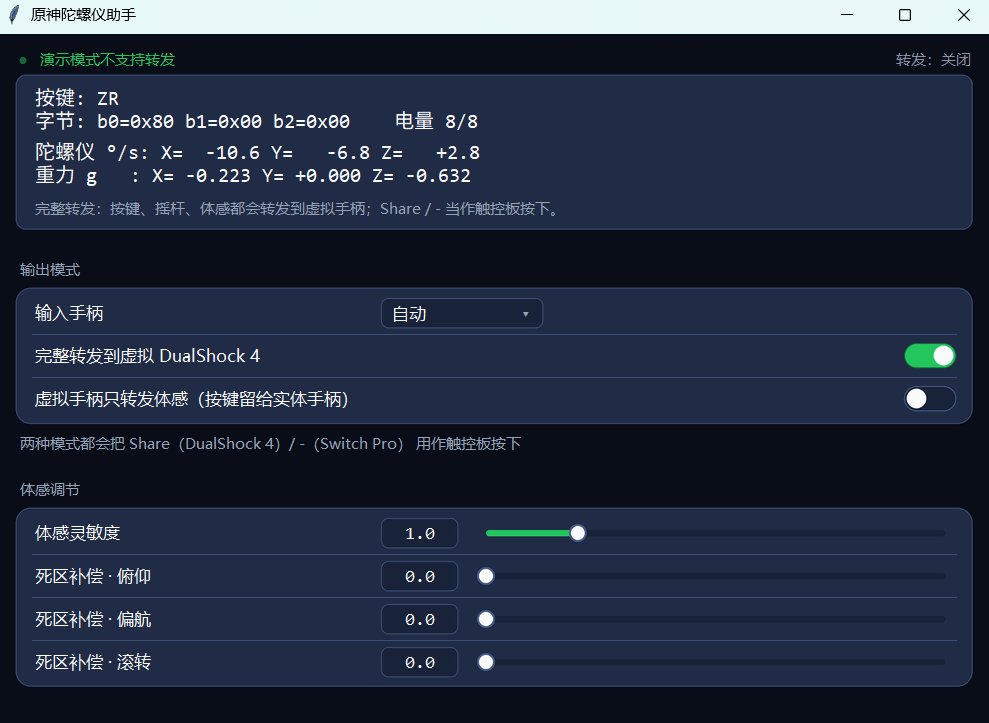
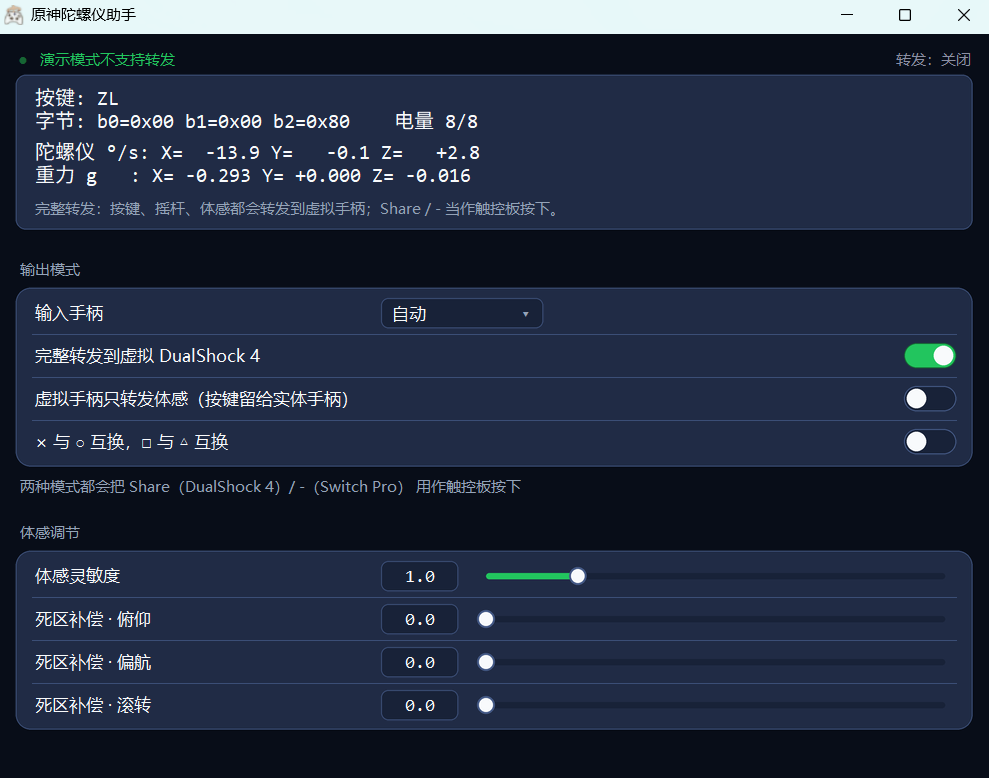
v1.3.2 新增 ×○□△ 键位互换

Changed region(s): [[0.0, 0.0, 1.0, 0.639], [0.0, 0.6694, 1.0, 0.9737]]

diff --git a/gui.py b/gui.py
@@ -389,6 +389,9 @@ class App:
         # Remembered sensitivity and anti-deadzone from the last run
         # (settings.json beside the exe).
         self.config.gyro_gain = settings.gyro_gain()
+        # Remembered like the sensitivity: the window shows exactly what the
+        # virtual pad was doing when the program last closed.
+        self.config.swap_face_buttons = settings.swap_face_buttons()
         self.deadzone = settings.motion_deadzone()
         self.config.motion_deadzone_dps = tuple(self.deadzone)
         self.source = source
@@ -484,7 +487,7 @@ class App:
         label_column = int(max(label_font.measure(text) for text in (
             "虚拟手柄只转发体感（按键留给实体手柄）",
             "完整转发到虚拟 DualShock 4", "输入手柄", "体感灵敏度",
-            "死区补偿 · 俯仰")) + px(20))
+            "× 与 ○ 互换，□ 与 △ 互换", "死区补偿 · 俯仰")) + px(20))
 
         def section(title: str, top: int = ui_theme.SPACE_MD) -> tk.Frame:
             """A titled card; rows go inside the returned frame."""
@@ -533,6 +536,16 @@ class App:
             motion_row, self.motion_only_var, command=self.toggle_motion_only,
             scale=self.scale)
         self.motion_check.pack(side="right")
+
+        # The virtual pad's face buttons can be exchanged without touching the
+        # controller, so a pad laid out one way still fits a game that expects the
+        # other.  Independent of the forwarding mode above.
+        self.swap_face_var = tk.BooleanVar(value=self.config.swap_face_buttons)
+        swap_row = row(mode_card, "× 与 ○ 互换，□ 与 △ 互换")
+        self.swap_face_check = ui_theme.ToggleSwitch(
+            swap_row, self.swap_face_var, command=self.toggle_swap_face_buttons,
+            scale=self.scale)
+        self.swap_face_check.pack(side="right")
 
         self.share_note = tk.Label(
             footer, text=f"两种模式都会把 {SHARE_NOTE} 用作触控板按下",
@@ -739,6 +752,17 @@ class App:
         """Checkbox 2: motion only, so the physical pad keeps buttons and sticks."""
         self.apply_mode(MODE_MOTION if self.motion_only_var.get() else MODE_OFF)
 
+    def toggle_swap_face_buttons(self) -> None:
+        """Exchange ✕↔○ and □↔△ on the virtual pad, and remember the choice.
+
+        Independent of the forwarding mode: it only rewrites the four face-button
+        bits on their way into the virtual pad, so the physical controller needs no
+        settings of its own.  In "motion only" mode the report carries no buttons at
+        all, which makes the switch a no-op there rather than a contradiction.
+        """
+        self.config.swap_face_buttons = settings.set_swap_face_buttons(
+            self.swap_face_var.get())
+
 
 
 
@@ -942,7 +966,7 @@ def main(argv: list[str] | None = None) -> int:
     # --debug-layout report below prints req/alloc widths so clipping is
     # verifiable without eyeballing pixels.
     scale = max(1.0, root.winfo_fpixels("1i") / 96.0)
-    width, height = int(800 * scale), int(556 * scale)
+    width, height = int(800 * scale), int(600 * scale)
     if args.debug_layout:
         print(f"screen = {root.winfo_screenwidth()}x{root.winfo_screenheight()}  "
               f"dpi scale = {root.winfo_fpixels('1i') / 96.0:.3f}  "
@@ -951,7 +975,7 @@ def main(argv: list[str] | None = None) -> int:
         print(f"report  = {paths.app_path('verification_report.json')}", flush=True)
         print(f"fixes   = {mapping.captured_mapping_path()}", flush=True)
     root.geometry(f"{width}x{height}+40+40")
-    root.minsize(int(760 * scale), int(520 * scale))
+    root.minsize(int(760 * scale), int(564 * scale))
 
     app = App(root, forward=args.forward, demo=args.demo, topmost=args.topmost,
               scale=scale, source=args.source)

diff --git a/mapping.py b/mapping.py
@@ -295,6 +295,13 @@ class MappingConfig:
     #: --motion-only on the command line).
     share_as_touchpad: bool = False
 
+    #: exchange the two pairs of face buttons on the virtual pad: ✕↔○ and □↔△.
+    #: Games disagree about which physical button means "confirm", so this lets one
+    #: controller match either layout without re-learning the controls.  Only those
+    #: four bits move -- the d-pad hat, shoulders, triggers and Share/Options are
+    #: untouched.  Off by default.
+    swap_face_buttons: bool = False
+
     #: How motion is paced onto the virtual pad: "hardware" (reproduce a real
     #: wired pad: 4.096 ms reports, timestamp +768, sample held over two reports),
     #: "smooth" (interpolated ~400 Hz, pretty waveform) or "raw" (one report per
@@ -467,7 +474,7 @@ class SwitchToDS4Mapper:
         # "-" on the Switch Pro becomes the Share bit, so this turns it into the
         # touchpad click when the user asked for that.
         buttons, special = apply_share_as_touchpad(buttons, special, self.config)
-        self.pad.set_buttons(buttons, special)
+        self.pad.set_buttons(swap_face_buttons(buttons, self.config), special)
         self.pad.set_sticks(*self._sticks(state))
         self.pad.set_triggers(*self._triggers(state))
         level, charging = self._battery(state)
@@ -521,6 +528,28 @@ class SwitchToDS4Mapper:
 #: "special" byte (the same place real hardware reports it).
 SHARE_MASK = 1 << 12
 TOUCHPAD_MASK = 0x02
+
+#: The pairs "swap face buttons" exchanges, as DS4 button bits.  The low nibble of
+#: the button word is the d-pad hat, so these bits never collide with it.
+FACE_BUTTON_PAIRS = (
+    (vigem.DS4_BUTTONS["cross"], vigem.DS4_BUTTONS["circle"]),      # ✕ <-> ○
+    (vigem.DS4_BUTTONS["square"], vigem.DS4_BUTTONS["triangle"]),   # □ <-> △
+)
+
+
+def swap_face_buttons(buttons: int, config: "MappingConfig") -> int:
+    """Exchange ✕↔○ and □↔△ in a DS4 button word.
+
+    A pair is exchanged by flipping both of its bits, which is only right when
+    exactly one of the two is down.  When both are down (or neither is), each
+    state maps onto itself, so the word is returned unchanged instead.
+    """
+    if not config.swap_face_buttons:
+        return buttons
+    for first, second in FACE_BUTTON_PAIRS:
+        if bool(buttons & first) != bool(buttons & second):
+            buttons ^= first | second
+    return buttons
 
 
 def apply_motion_deadzone(gyro, config: "MappingConfig"):
@@ -782,6 +811,8 @@ class DS4ToDS4Relay:
             report.bSpecial = state.special
             report.bTriggerL, report.bTriggerR = state.triggers
         self._apply_share_mapping(state, report)
+        # Last thing before the report is submitted: the face buttons the game sees.
+        report.wButtons = swap_face_buttons(report.wButtons, self.config)
         self.pad.set_battery_byte(state.battery)
 
     def _apply_share_mapping(self, state, report) -> None:

diff --git a/tools/test_settings.py b/tools/test_settings.py
@@ -66,9 +66,9 @@ def main() -> int:
         check("读回 3.5", settings.gyro_gain(path), 3.5)
         with open(path, encoding="utf-8") as handle:
             stored = json.load(handle)
-        check("文件里有全部记忆项（含三个死区与勾选框状态）",
+        check("文件里有全部记忆项（含三个死区、勾选框与键位互换）",
               sorted(stored), ["deadzone_pitch", "deadzone_roll", "deadzone_yaw",
-                              "gyro_gain", "mode"])
+                              "gyro_gain", "mode", "swap_face_buttons"])
         check("文件里存的就是 3.5", stored["gyro_gain"], 3.5)
 
         print("\n[2] 精度与范围")
@@ -128,9 +128,9 @@ def main() -> int:
               settings.motion_deadzone(path), (0.0, 0.0, 1.1))
         with open(path, encoding="utf-8") as handle:
             keys = sorted(json.load(handle))
-        check("五个记忆项都在同一个文件里",
+        check("六个记忆项都在同一个文件里",
               keys, ["deadzone_pitch", "deadzone_roll", "deadzone_yaw", "gyro_gain",
-                     "mode"])
+                     "mode", "swap_face_buttons"])
 
         print("\n[3d] 勾选框状态（mode）")
         check("默认 off", settings.mode(path), "off")
@@ -141,6 +141,18 @@ def main() -> int:
         check("非法 mode 回退 off", settings.set_mode("nonsense", path), "off")
         settings.set_mode("full", path)
         check("full 可以存", settings.mode(path), "full")
+
+        print("\n[3e] 键位互换（swap_face_buttons）")
+        check("默认关", settings.swap_face_buttons(path), False)
+        check("写入 True 返回 True", settings.set_swap_face_buttons(True, path), True)
+        check("读回 True", settings.swap_face_buttons(path), True)
+        check("存互换不会清掉勾选框", settings.mode(path), "full")
+        check("存互换不会清掉灵敏度", settings.gyro_gain(path), 2.0)
+        check("字符串 false 当关闭", settings.clamp_flag("false"), False)
+        check("数字 1 当打开", settings.clamp_flag(1), True)
+        check("乱写回退关闭", settings.clamp_flag("乱写"), False)
+        check("写回 False", settings.set_swap_face_buttons(False, path), False)
+        check("读回 False", settings.swap_face_buttons(path), False)
 
         print("\n[4] 目录不可写时不抛异常")
         nested = os.path.join(directory, "no_such_dir", "deep", "settings.json")

diff --git a/settings.py b/settings.py
@@ -23,6 +23,8 @@ DEFAULT_SETTINGS: dict = {
     "deadzone_yaw": 0.0,
     "deadzone_roll": 0.0,
     "mode": "off",
+    #: exchange the virtual pad's ✕↔○ and □↔△.
+    "swap_face_buttons": False,
 }
 
 #: Same limits as the GUI sliders.
@@ -145,4 +147,34 @@ def set_mode(value: str, path: str | None = None) -> str:
     """Remember the checkbox state; returns what was actually stored."""
     chosen = value if value in MODE_CHOICES else MODE_DEFAULT
     save({"mode": chosen}, path)
+    return chosen
+
+
+def clamp_flag(value) -> bool:
+    """Coerce anything into a usable on/off value.
+
+    JSON holds real booleans, but a hand-edited file may contain ``"true"``,
+    ``1`` or ``""``.  Those have an obvious meaning; everything else falls back
+    to off, which is the safe direction for a switch that changes the controls.
+    """
+    if isinstance(value, bool):
+        return value
+    if isinstance(value, (int, float)):
+        return value != 0
+    if isinstance(value, str):
+        text = value.strip().lower()
+        if text in ("1", "true", "yes", "on"):
+            return True
+    return False
+
+
+def swap_face_buttons(path: str | None = None) -> bool:
+    """Whether the face buttons were being exchanged when the program last closed."""
+    return clamp_flag(load(path).get("swap_face_buttons"))
+
+
+def set_swap_face_buttons(value, path: str | None = None) -> bool:
+    """Remember the face-button exchange; returns what was actually stored."""
+    chosen = clamp_flag(value)
+    save({"swap_face_buttons": chosen}, path)
     return chosen

diff --git a/version.py b/version.py
@@ -2,12 +2,12 @@
 
 from __future__ import annotations
 
-__version__ = "1.3.1"
+__version__ = "1.3.2"
 
 #: Short description of what this build is, used by --version and the snapshot.
 __summary__ = ("原神陀螺仪助手 / GenshinGyro —— Switch Pro 手柄 与 DualShock 4（有线·蓝牙）"
                "→ 虚拟 DualShock 4"
-               "（按键 / 摇杆 / 体感；灵敏度与三轴死区补偿可调、都会被记住；"
+               "（按键 / 摇杆 / 体感；灵敏度、三轴死区补偿、×○□△ 键位互换可调、都会被记住；"
                "Share 或 Switch 的 - 可映射为触控板按下）"
                "；双击即开图形界面；蓝牙 DS4 会被改写成有线报文，"
                "解决游戏读不到蓝牙体感的问题")

diff --git a/CHANGELOG.md b/CHANGELOG.md
@@ -3,6 +3,36 @@
 > v1.3.1 起软件名统一为「原神陀螺仪助手」（英文 GenshinGyro），exe 从
 > `SwitchProToDS4.exe` 改为 `GenshinGyro.exe`。更早的条目保留原名，方便对照。
 
+## v1.3.2 — 新增「× 与 ○ 互换，□ 与 △ 互换」
+
+**背景**：游戏之间对"确认键"的约定不一样，同一只手柄换个游戏就得重新适应按键位置。
+原神本身不吃这个，但用同一个虚拟手柄接别的游戏时会遇到。
+
+**实现**（`mapping.swap_face_buttons()` + `MappingConfig.swap_face_buttons`）
+接在**两条转发路径的最后一步**，所以 NS 模式和 DS4 模式都能用：
+
+* Switch 映射：`SwitchToDS4Mapper.apply_static()` → `set_buttons(swap_face_buttons(...))`
+* DS4 中继：`DS4ToDS4Relay._write_inputs()` → `wButtons = swap_face_buttons(...)`
+
+交换的是 DS4 按键字里的两对位：`1<<5` ✕ ↔ `1<<6` ○、`1<<4` □ ↔ `1<<7` △。
+十字键占低 4 位，肩键、扳机、Share/Options 在更高位，**都不会被碰到**。
+两者同时按下（或都不按）时该对映射到自身、原样返回，所以连按两次等于没按。
+
+**界面**：「输出模式」卡片新增第三行开关「× 与 ○ 互换，□ 与 △ 互换」，
+与上面两个开关**互不排斥**（它不参与转发模式的互斥）。
+因为多了一行，窗口默认高度 556 → 600 设计像素、`minsize` 同步 564，避免底部被裁。
+
+**记忆**：和灵敏度、死区、模式一样写进 `settings.json`，下次启动沿用。
+`settings.clamp_flag()` 负责容错 —— 手改文件写成 `"true"` / `1` / `""` 都能正确理解，
+认不出来的值回退成关（这是会改变按键行为的开关，宁可关）。
+
+**文档**：README、快速开始.txt 同步；首图换成含新开关的新界面。
+
+**验证**：**501 项断言全绿**（端到端 92 / DS4 中继 108 / 界面 115 / 核对逻辑 74 /
+震动 54 / 设置 48 / DS4 输出 10）。另用假 pad 逐条核对开关在两条路径上的实际输出：
+DS4 中继按 ✕+△ → ○+□；Switch 的 B/A/Y/X → ○/✕/△/□；
+都不按、同按、L1+R1、Share、十字键全部不受影响。
+
 ## v1.3.1 — 改名 + 界面重做（抗锯齿 / DPI 感知 / 状态指示）+ 首个公开版本
 
 **改名**：对外统一为「原神陀螺仪助手 / GenshinGyro」。exe、窗口标题、发行包、

diff --git a/README.md b/README.md
@@ -88,7 +88,8 @@
 | 体感灵敏度 | 0.1 – 10.0，只缩放角速度，不动加速度（否则游戏判断倾斜的参考就毁了） |
 | 三轴死区补偿 | 俯仰 / 偏航 / 滚转各自独立，单位 °/s，低于 0.5 °/s 不补，所以静止不会漂 |
 | Share / - → 触控板 | 两种转发模式下都可用；蓝牙下触控板按键不灵，这是最靠得住的位置 |
-| 设置记忆 | 灵敏度和三个补偿值写进 exe 旁边的 `settings.json`，下次启动沿用 |
+| × 与 ○ 互换，□ 与 △ 互换 | 交换虚拟手柄的两对面键。游戏之间对"确认键"的约定不同，用它把一只手柄的布局掰成另一种，不用重新练手感。只动这四个键，十字键、肩键、扳机、Share 都不受影响 |
+| 设置记忆 | 转发模式、灵敏度、三个补偿值、键位互换全部写进 exe 旁边的 `settings.json`，下次启动沿用 |
 
 ## 它不做什么
 
